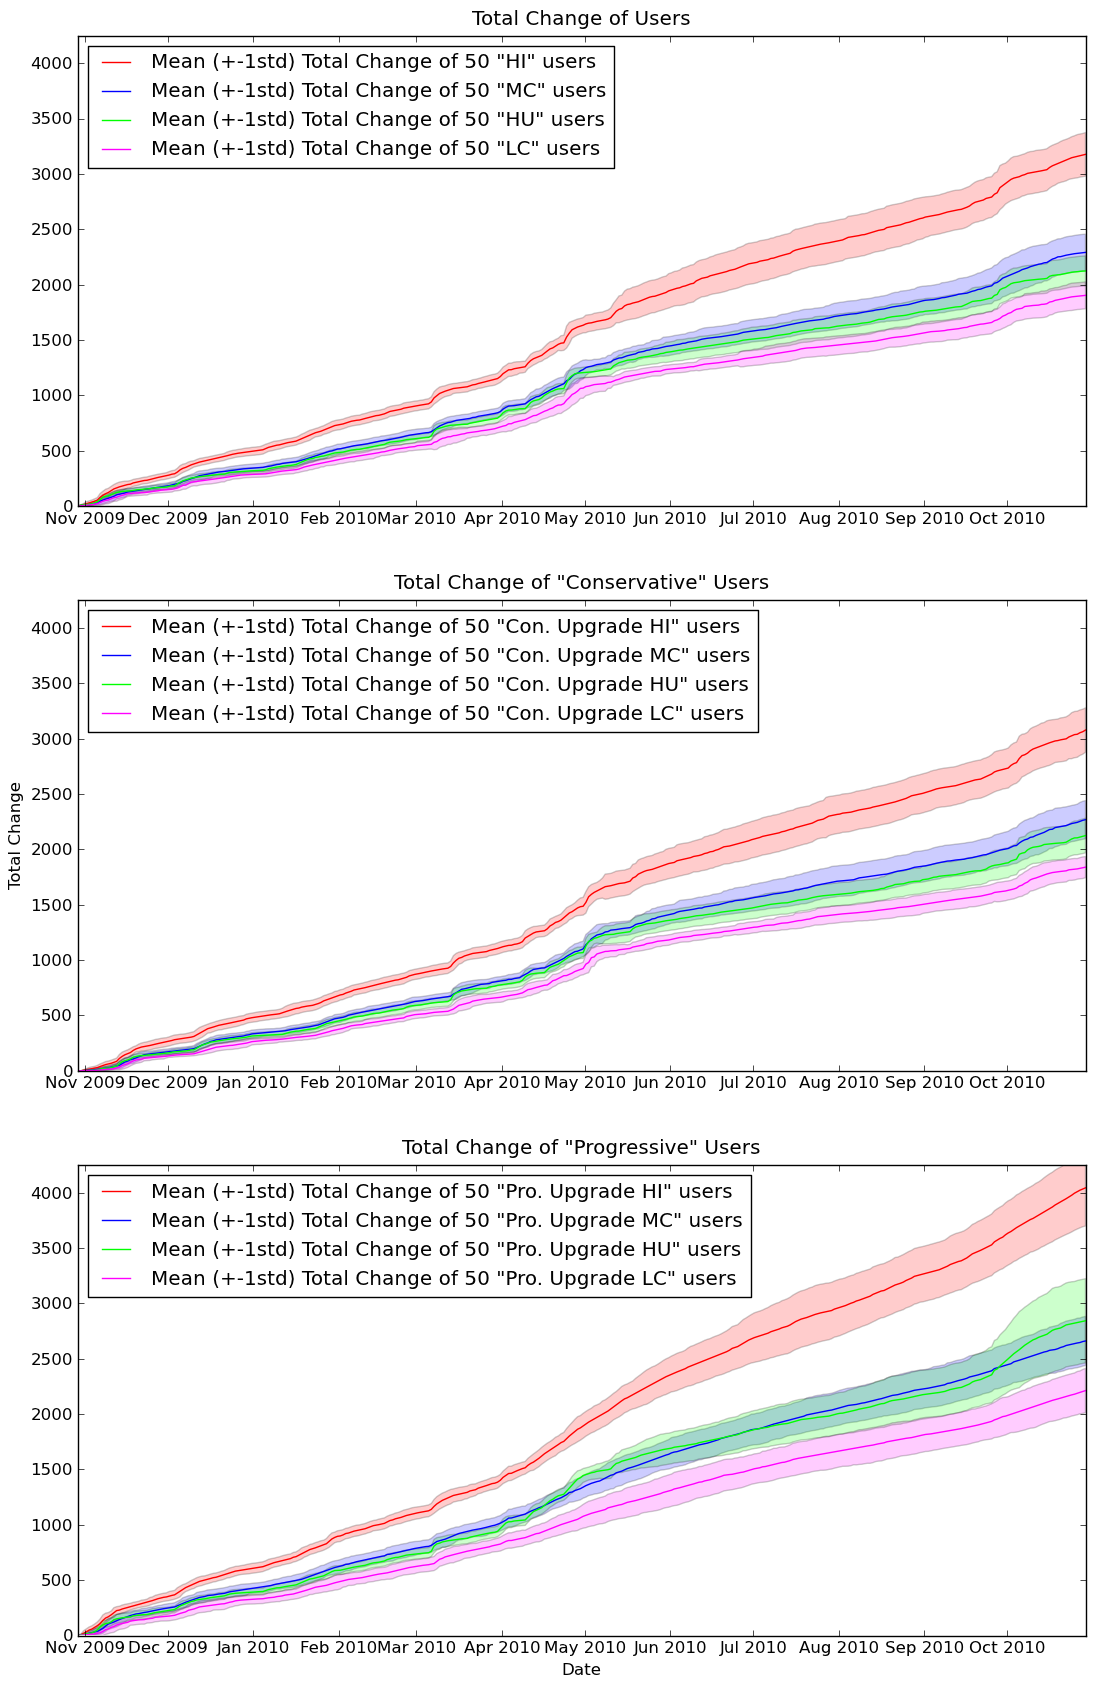
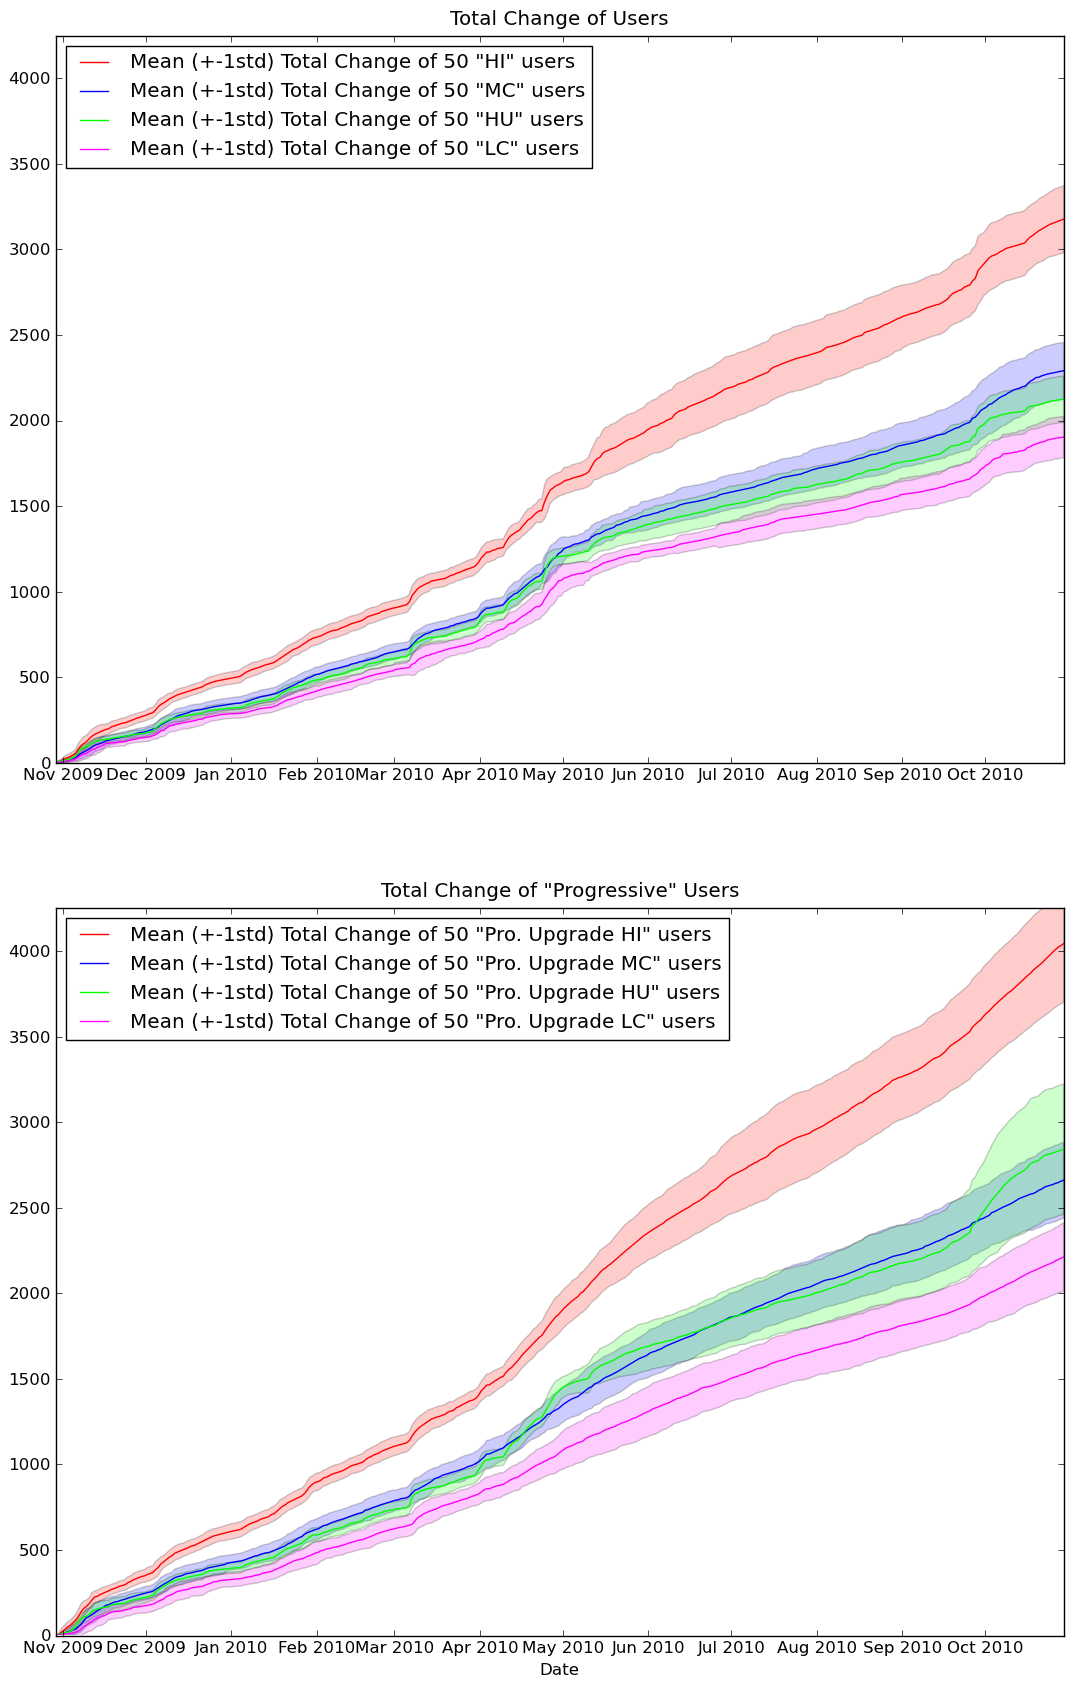
Aha

Changed region(s): [[0.0, 0.0309, 1.0, 1.0], [0.123, 0.0, 0.6151, 0.0926]]

diff --git a/UbuntuSimulationAnalysis/aq6.py b/UbuntuSimulationAnalysis/aq6.py
@@ -60,7 +60,7 @@ def softfailures():
 def plotuttdpc():
 	pylab.figure(1)
 	
-	pylab.subplot(311)
+	pylab.subplot(211)
 	
 	for name,pf,c in norms: 
 		ivals = map(lambda x : uttdperc(x),pf)
@@ -78,26 +78,7 @@ def plotuttdpc():
 	pylab.title("Uptodate Distance per Component of Users")
 	pylab.ylim([0,1])
 	
-	pylab.subplot(312)
-	
-	for name,pf,c in cons: 
-		ivals = map(lambda x : uttdperc(x),pf)
-		imean,istd,imeanpstd,imeanmstd = multimeanstd(ivals)
-		pylab.fill_between(pallthedays, imeanpstd, imeanmstd, facecolor=c, alpha=0.2)
-	
-	for name,pf,c in cons: 
-		ivals = map(lambda x : uttdperc(x),pf)
-		imean,istd,imeanpstd,imeanmstd = multimeanstd(ivals)
-		mdiff = numpy.mean(imean)
-		print "%s, mean uttdpc %f, final val %f" % (name,mdiff,imean[-1])
-		pylab.plot(pallthedays,imean,color=c,label=("Mean (+-1std) UTTDpC of 50 \"%s\" users" % name))
-
-	pylab.legend(loc="upper left")
-	pylab.ylabel("Uptodate Distance per Component")
-	pylab.title("Uptodate Distance per Component of \"Conservative\" Users")
-	pylab.ylim([0,1])
-	
-	pylab.subplot(313)
+	pylab.subplot(212)
 	
 	for name,pf,c in pros: 
 		ivals = map(lambda x : uttdperc(x),pf)
@@ -213,7 +194,7 @@ def plotuttdpc():
 	
 def plotchange():
 	pylab.figure(11)
-	pylab.subplot(311)
+	pylab.subplot(211)
 	
 	for name,pf,c in norms: 
 		ivals = map(lambda x : chtt(x),pf)
@@ -226,58 +207,29 @@ def plotchange():
 		print "Final Change, %s (mean : %f , std %f)  7days (mean : %f , std %f)" % (name, imean[-1],istd[-1], imean[-7],istd[-7])
 		pylab.plot(pallthedays,imean,color=c,label=("Mean (+-1std) Total Change of 50 \"%s\" users" % name))
 	
+
 #HI, mean uttdpc 0.364631, final val 0.797584
 #MC, mean uttdpc 0.338309, final val 0.795248
 #HU, mean uttdpc 0.316690, final val 0.826326
 #LC, mean uttdpc 0.307916, final val 0.772981
-#Con. Upgrade HI, mean uttdpc 0.389317, final val 0.811949
-#Con. Upgrade MC, mean uttdpc 0.349597, final val 0.794983
-#Con. Upgrade HU, mean uttdpc 0.338260, final val 0.793794
-#Con. Upgrade LC, mean uttdpc 0.329331, final val 0.799331
 #Pro. Upgrade HI, mean uttdpc 0.187131, final val 0.432870
 #Pro. Upgrade MC, mean uttdpc 0.244713, final val 0.632974
 #Pro. Upgrade HU, mean uttdpc 0.191693, final val 0.418295
 #Pro. Upgrade LC, mean uttdpc 0.257741, final val 0.620028
-
 #Final Change, HI (mean : 3176.460000 , std 196.894511)  7days (mean : 3136.520000 , std 186.116871)
 #Final Change, MC (mean : 2291.140000 , std 164.070474)  7days (mean : 2271.040000 , std 164.721093)
 #Final Change, HU (mean : 2123.320000 , std 135.426207)  7days (mean : 2108.560000 , std 135.422621)
 #Final Change, LC (mean : 1903.140000 , std 121.187955)  7days (mean : 1885.540000 , std 120.392227)
-
-#Final Change, Con. Upgrade HI (mean : 3077.380000 , std 200.017788)  7days (mean : 3015.000000 , std 196.528675)
-#Final Change, Con. Upgrade MC (mean : 2267.980000 , std 171.920038)  7days (mean : 2225.360000 , std 164.580772)
-#Final Change, Con. Upgrade HU (mean : 2124.200000 , std 156.344491)  7days (mean : 2080.980000 , std 147.143262)
-#Final Change, Con. Upgrade LC (mean : 1839.000000 , std 94.992210)  7days (mean : 1815.080000 , std 95.710781)
-
-#HI = 60
-#MC = 4
-#HU = -15
-#
+#Final Change, Pro. Upgrade HI (mean : 4042.800000 , std 344.373576)  7days (mean : 3959.900000 , std 327.849798)
+#Final Change, Pro. Upgrade MC (mean : 2660.060000 , std 221.295044)  7days (mean : 2625.400000 , std 218.985662)
+#Final Change, Pro. Upgrade HU (mean : 2842.340000 , std 379.964662)  7days (mean : 2810.520000 , std 379.700105)
+#Final Change, Pro. Upgrade LC (mean : 2211.740000 , std 199.622725)  7days (mean : 2165.460000 , std 192.003772)
 	
 	pylab.legend(loc="upper left")
 	pylab.title("Total Change of Users")
 	pylab.ylim([0,4250])
 	
-	pylab.subplot(312)
-	
-	for name,pf,c in cons: 
-		ivals = map(lambda x : chtt(x),pf)
-		imean,istd,imeanpstd,imeanmstd = multimeanstd(ivals)
-		pylab.fill_between(pallthedays, imeanpstd, imeanmstd, facecolor=c, alpha=0.2)
-	
-	for name,pf,c in cons: 
-		ivals = map(lambda x : chtt(x),pf)
-		imean,istd,imeanpstd,imeanmstd = multimeanstd(ivals)
-		mdiff = numpy.mean(imean)
-		print "Final Change, %s (mean : %f , std %f)  7days (mean : %f , std %f)" % (name, imean[-1],istd[-1], imean[-7],istd[-7])
-		pylab.plot(pallthedays,imean,color=c,label=("Mean (+-1std) Total Change of 50 \"%s\" users" % name))
-
-	pylab.legend(loc="upper left")
-	pylab.ylabel("Total Change")
-	pylab.title("Total Change of \"Conservative\" Users")
-	pylab.ylim([0,4250])
-	
-	pylab.subplot(313)
+	pylab.subplot(212)
 	
 	for name,pf,c in pros: 
 		ivals = map(lambda x : chtt(x),pf)

diff --git a/UbuntuSimulationAnalysis/repeatedinstallsgraph.py b/UbuntuSimulationAnalysis/repeatedinstallsgraph.py
@@ -96,41 +96,50 @@ def countrepeats(ofile,days):
 assert countrepeats("q1a/alwaysupdate.user.out",7) == 23
 
 
-alwaays = countallrepeats("q1a/alwaysupdate.user.out")
+#alwaays = countallrepeats("q1a/alwaysupdate.user.out")
 
-print "7", alwaays[7]
-print "14",alwaays[14]
-print "21",alwaays[21]
-print "28",alwaays[26:28]
-print alwaays
+print "7", countrepeats("q1a/alwaysupdate.user.out",7)
+print "14",countrepeats("q1a/alwaysupdate.user.out",14)
+print "21",countrepeats("q1a/alwaysupdate.user.out",21)
+print "28",countrepeats("q1a/alwaysupdate.user.out",28)
+
 hir = []
 hur = []
 mcr = []
 lcr = []
+phir = []
+phur = []
+pmcr = []
+plcr = []
+
 for i in range(1,51):
+	print "-"*10,i,"-"*10
 	hir.append(countallrepeats("q3/highinstall-%d.user.out" % i))
 	lcr.append(countallrepeats("q3/lowchange-%d.user.out" % i))
 	hur.append(countallrepeats("q3/highupdate-%d.user.out" % i))
 	mcr.append(countallrepeats("q3/mediumchange-%d.user.out" % i))
-
+	phir.append(countallrepeats("q6/progressivehighinstall-%d.user.out" % i))
+	plcr.append(countallrepeats("q6/progressivelowchange-%d.user.out" % i))
+	phur.append(countallrepeats("q6/progressivehighupdate-%d.user.out" % i))
+	pmcr.append(countallrepeats("q6/progressivemediumchange-%d.user.out" % i))
+	
 mhir = numpy.mean(hir,axis=0)
 mhur = numpy.mean(hur,axis=0)
 mmcr = numpy.mean(mcr,axis=0)
 mlcr = numpy.mean(lcr,axis=0)
 
+mphir = numpy.mean(phir,axis=0)
+mphur = numpy.mean(phur,axis=0)
+mpmcr = numpy.mean(pmcr,axis=0)
+mplcr = numpy.mean(plcr,axis=0)
 
-pylab.plot(mhir,label="HI")
-pylab.plot(mhur,label="HU")
-pylab.plot(mmcr,label="MC")
-pylab.plot(mlcr,label="LC")
-pylab.plot(alwaays,label="AU")
-pylab.xlabel("Days")
-pylab.ylabel("")
+print "HI",mhir[7],mhir[14],mhir[21],mhir[28]
+print "HU",mhur[7],mhur[14],mhur[21],mhur[28]
+print "MC",mmcr[7],mmcr[14],mmcr[21],mmcr[28]
+print "LC",mlcr[7],mlcr[14],mlcr[21],mlcr[28]
 
-pylab.title("Unstable Package Installs for Users")
+print "PHI",mphir[7],mphir[14],mphir[21],mphir[28]
+print "PHU",mphur[7],mphur[14],mphur[21],mphur[28]
+print "PMC",mpmcr[7],mpmcr[14],mpmcr[21],mpmcr[28]
+print "PLC",mplcr[7],mplcr[14],mplcr[21],mplcr[28]
 
-pylab.legend(loc="upper left")
-
-#this shows that a user who installs frequently 
-
-	

diff --git a/UbuntuSimulationAnalysis/users.py b/UbuntuSimulationAnalysis/users.py
@@ -30,7 +30,7 @@ usersprobs = [("res1.log.actionmap" , 0.264151 , 0.358491 ),
 ("49.log.actionmap" , 0.441860 , 0.186047 )]
 
 kval = 4
-colors = ["red","green","blue","cyan", "magenta"]*10
+colors = ["#FF0000","#0000FF","#00FF00","#FF00FF"]
 points = map(lambda x: (x[1],x[2]),usersprobs)
 
 k = KMeans(k=kval)
@@ -38,15 +38,21 @@ k = KMeans(k=kval)
 k.fit(points)
 
 
-
+toshow = [[],[],[],[]]
 for kv in range(kval):
 	for i in range(len(points)):
 		if k.labels_[i] == kv:
-			pylab.scatter(points[i][0],points[i][1],color = colors[kv])
+			toshow[kv].append((points[i][0],points[i][1]))
 			
+
+toshow = sorted(toshow, key = lambda x : -sorted(x[0])[0])
+for i in range(len(toshow)):
+	for point in toshow[i]:
+		pylab.scatter(point[0],point[1],color = colors[i])
+	
 ps = 	[("High Install (HI)",0.42159,0.7638915),
 	("Low Change (LC)",0.18629183,0.08623483),
-	("High Update (HU)",0.5610895,0.1918915),
+	("High Upgrade (HU)",0.5610895,0.1918915),
 	("Medium Change (MC)",0.22202257,0.25948714)]
 
 for n,x,y in ps:
@@ -57,21 +63,22 @@ for n,x,y in ps:
 
 #pylab.scatter(p[0],p[1],color="black",marker="x")
 
-terr = []
-for kv in range(kval):
-	kerr = 0
-	for i in range(len(points)):
-		if k.labels_[i] == kv:
-			err =  dist(numpy.array(points[i]),k.cluster_centers_[kv])
-			kerr += err
-	terr.append(kerr)
+#terr = []
+#for kv in range(kval):
+#	kerr = 0
+#	for i in range(len(points)):
+#		if k.labels_[i] == kv:
+#			err =  dist(numpy.array(points[i]),k.cluster_centers_[kv])
+#			kerr += err
+#	terr.append(kerr)
 	
-print numpy.mean(terr),terr
+#print numpy.mean(terr),terr
 
-print k.cluster_centers_
+#print k.cluster_centers_
 
-pylab.xlabel("Update Probability")
+pylab.xlabel("Upgrade Probability")
 pylab.ylabel("Install Probability")
+pylab.title("Extracted Information from Submitted User Logs")
 pylab.ylim([0,1])
 saveFigure("userlogAnalysis")
 	
